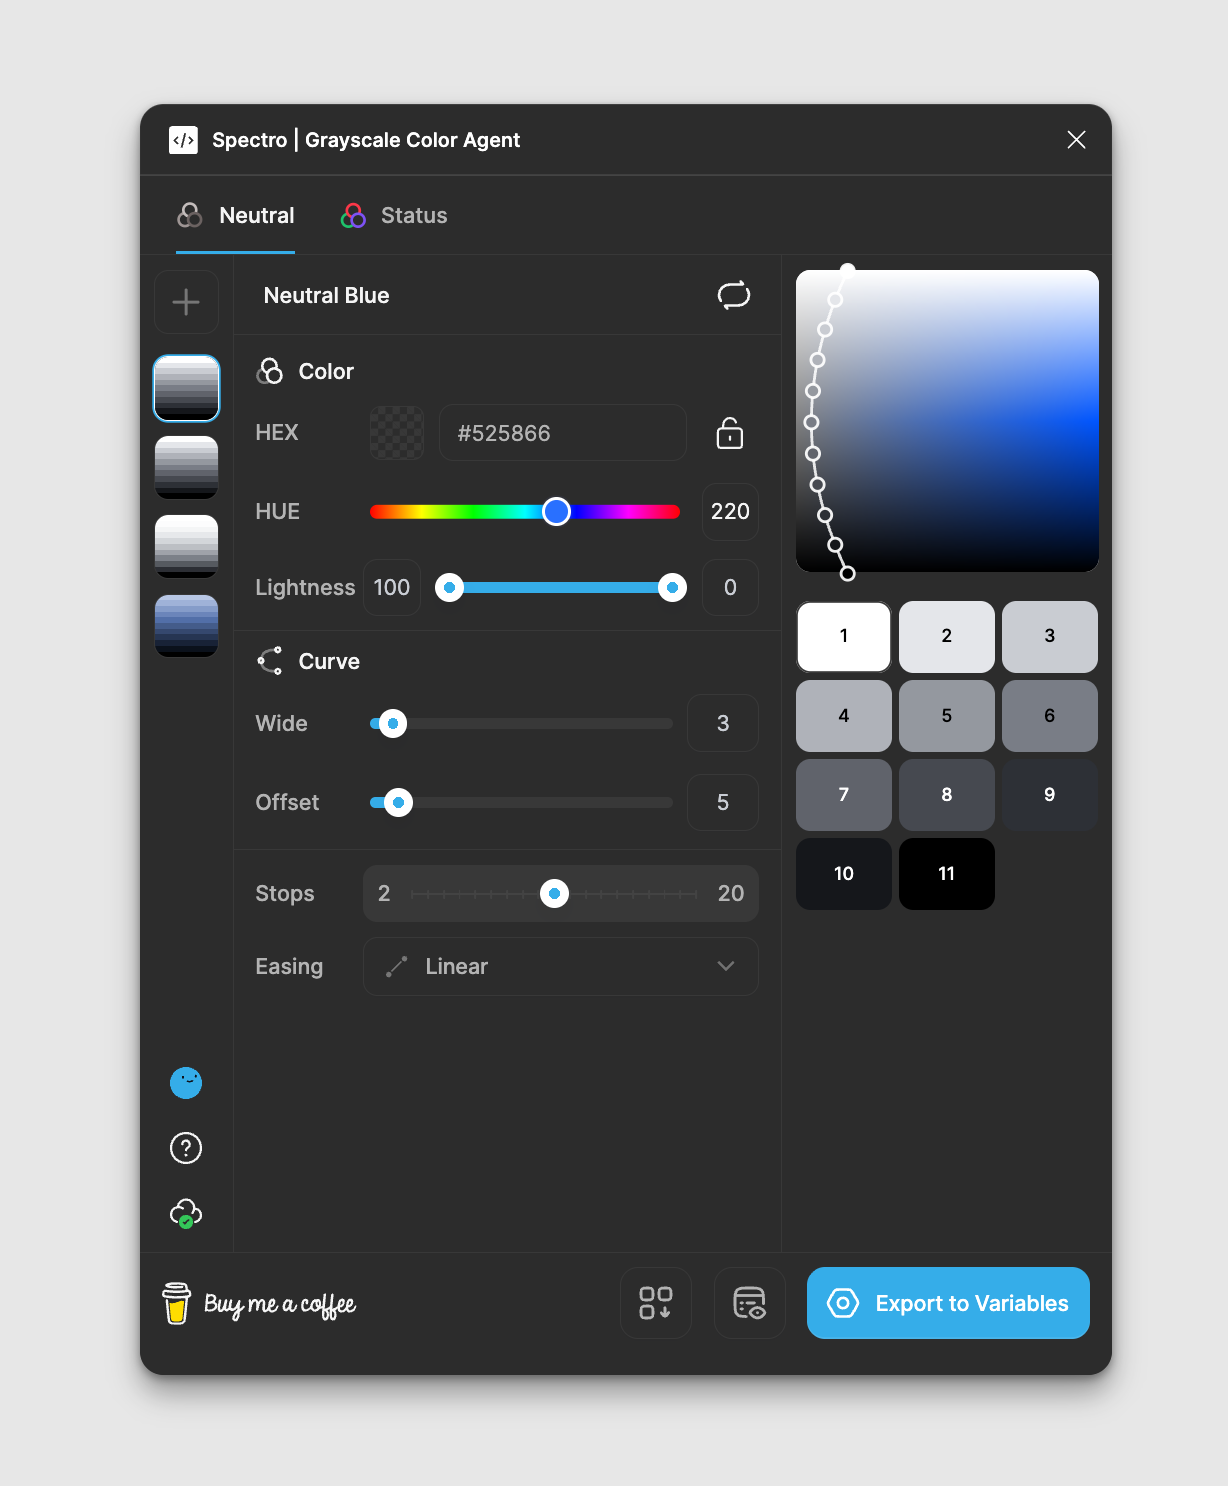
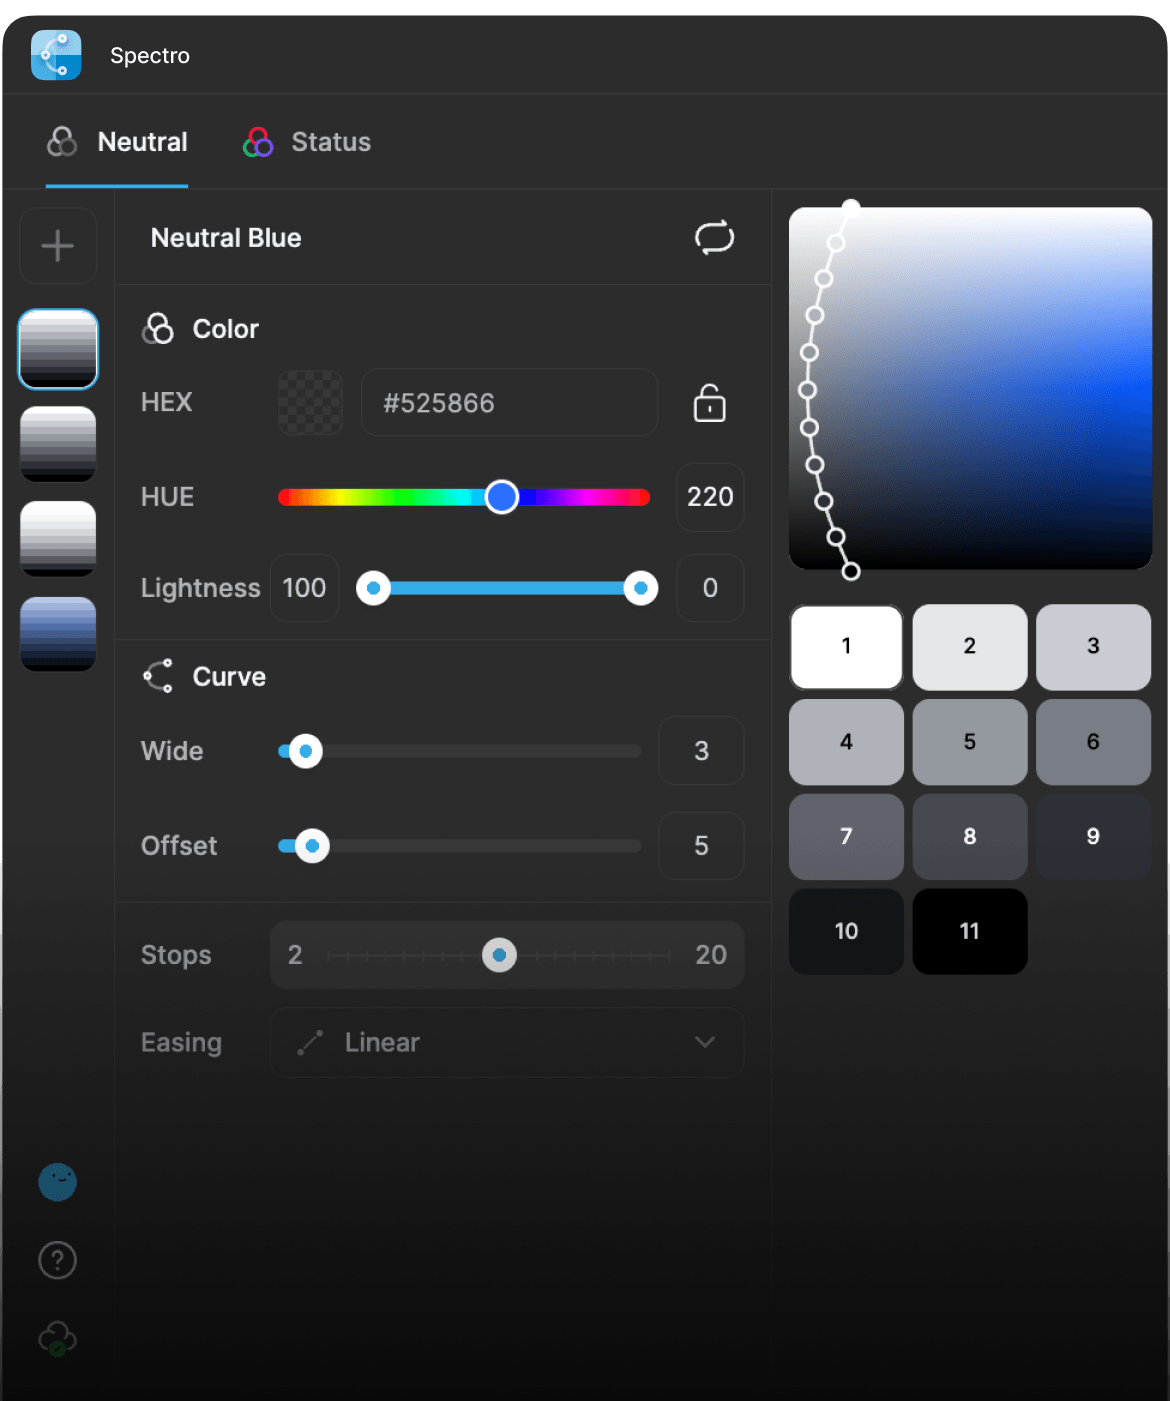
Update landing page assets

diff --git a/app/page.tsx b/app/page.tsx
@@ -69,10 +69,10 @@ export default function Home() {
                 </span>
               </div>
               <div className="relative h-[102.75%] overflow-hidden">
-                <img
-                  alt="Spectro neutral color generator interface"
-                  className="absolute left-[-14.4%] top-[-14.7%] h-[124%] max-w-none object-cover"
-                  src="/landing/neutral-panel.png"
+                <div
+                  aria-label="Spectro neutral color generator interface"
+                  className="absolute left-[-14.4%] top-[-14.7%] h-[124%] w-[126.35%] bg-[url('/landing/neutral-panel.png')] bg-cover bg-center"
+                  role="img"
                 />
               </div>
               <div className="pointer-events-none absolute inset-x-[-8%] bottom-0 h-[45%] bg-gradient-to-b from-[#05050600] to-[#050506]" />
@@ -86,10 +86,10 @@ export default function Home() {
                 </span>
               </div>
               <div className="relative aspect-[486/599] w-full overflow-hidden">
-                <img
-                  alt="Spectro status palette generator interface"
-                  className="absolute left-[-15.8%] top-[-16.2%] h-[126%] max-w-none object-cover"
-                  src="/landing/status-panel.png"
+                <div
+                  aria-label="Spectro status palette generator interface"
+                  className="absolute left-[-15.8%] top-[-16.2%] h-[126%] w-[133.75%] bg-[url('/landing/status-panel.png')] bg-cover bg-center"
+                  role="img"
                 />
               </div>
               <div className="pointer-events-none absolute inset-x-[-8%] bottom-0 h-[45%] bg-gradient-to-b from-[#05050600] to-[#050506]" />

diff --git a/app/layout.tsx b/app/layout.tsx
@@ -15,6 +15,16 @@ const geistMono = Geist_Mono({
 export const metadata: Metadata = {
   title: "Spectro",
   description: "Server-side palette generation and storage for Spectro.",
+  icons: {
+    icon: [
+      {
+        url: "/favicon.png",
+        type: "image/png",
+        sizes: "512x512",
+      },
+    ],
+    apple: "/favicon.png",
+  },
 };
 
 export default function RootLayout({